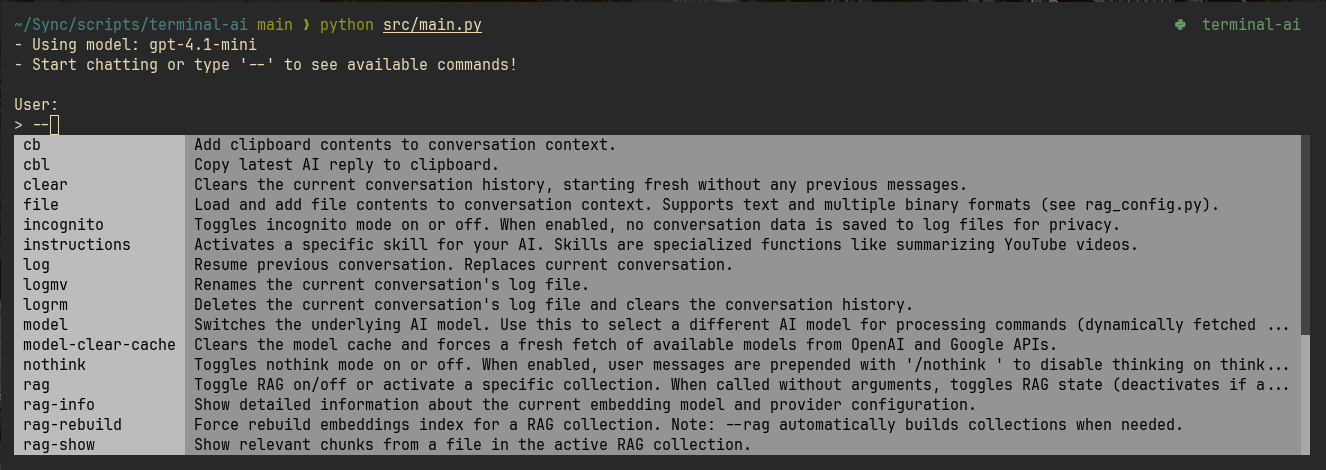
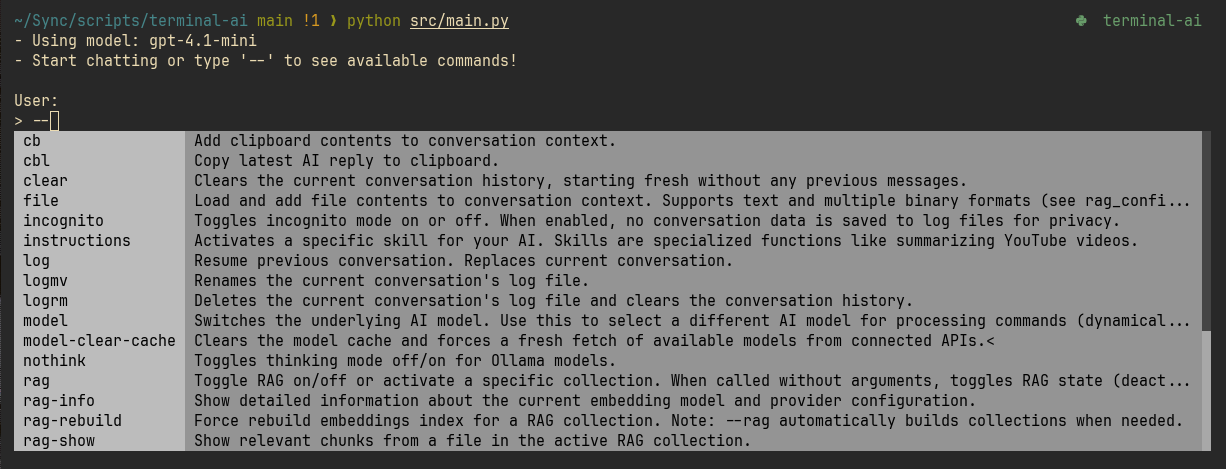
docs: update command descriptions and screenshot
- Update --model-clear-cache description to be API-agnostic
- Simplify --nothink command description for better clarity
- Update project screenshot

diff --git a/src/command_registry.py b/src/command_registry.py
@@ -79,7 +79,7 @@ class CommandRegistry:
 
         self.register_command(CommandInfo(
             name="--model-clear-cache",
-            description="Clears the model cache and forces a fresh fetch of available models from OpenAI and Google APIs.",
+            description="Clears the model cache and forces a fresh fetch of available models from connected APIs.<",
             usage="--model-clear-cache",
             execution_order=1,
             completion_rules=CompletionRules(CompletionType.NONE),
@@ -142,7 +142,7 @@ class CommandRegistry:
 
         self.register_command(CommandInfo(
             name="--nothink",
-            description="Toggles nothink mode on or off. When enabled, user messages are prepended with '/nothink ' to disable thinking on thinking Ollama models.",
+            description="Toggles thinking mode off/on for Ollama models.",
             usage="--nothink",
             execution_order=1,
             completion_rules=CompletionRules(CompletionType.NONE),
